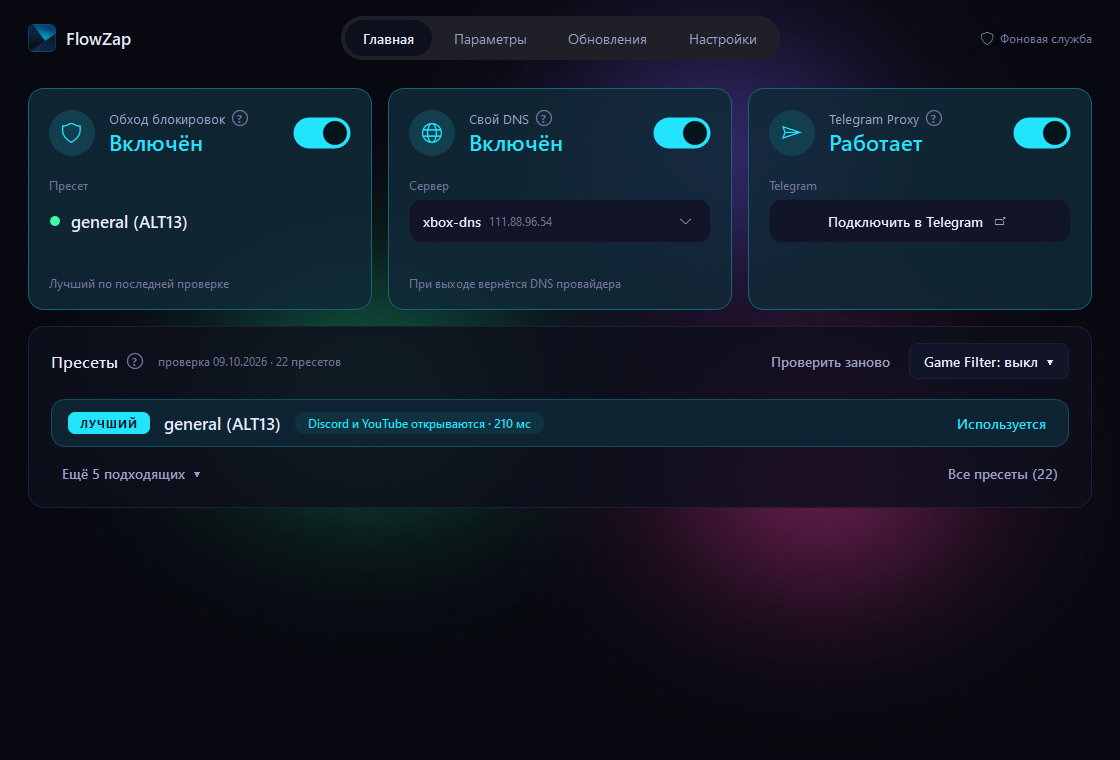
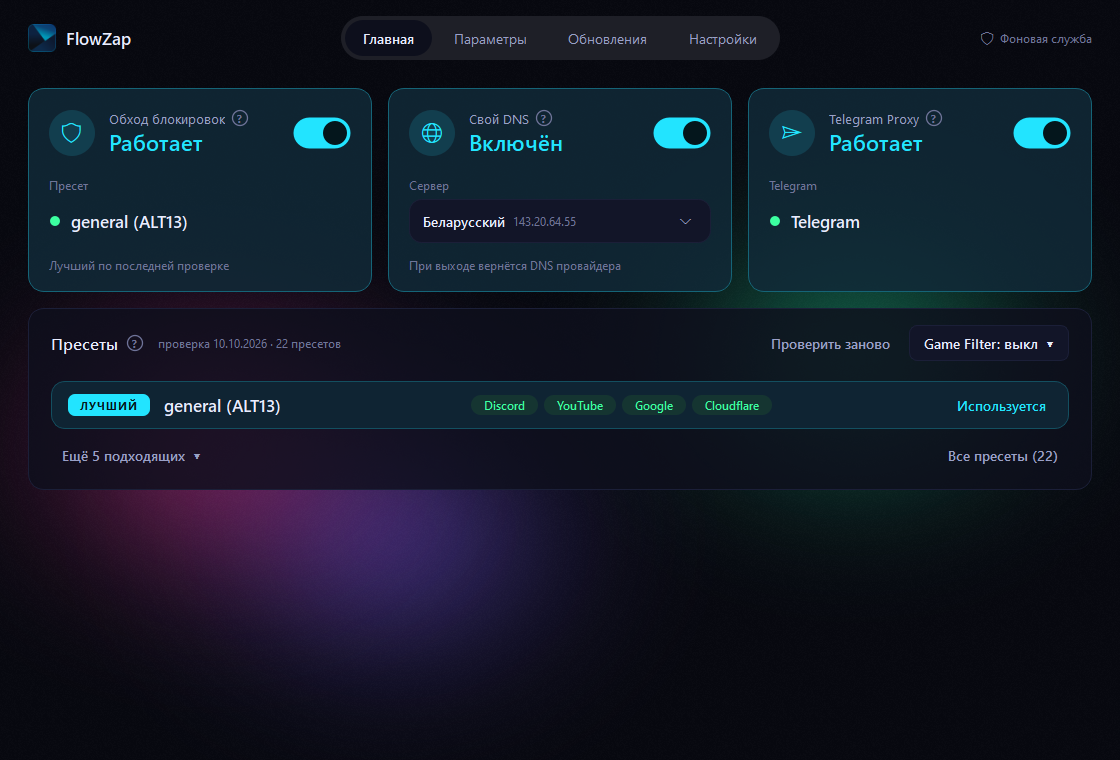
README: проверка по сервисам, подписанные обновления, «Старый секрет»
- Проверка пресетов: метки Discord / YouTube / Google / Cloudflare и как
  выбирается лучший; новые скриншоты главной (светлая и тёмная тема).
- Безопасность: обновления с 1.1 подписаны автором.
- FAQ: что делать, если на плитке Telegram «Старый секрет».
- Встроенный DNS по умолчанию — «Беларусский».

diff --git a/README.md b/README.md
@@ -41,7 +41,8 @@ FlowZap — приложение для Windows, которое возвраща
 
 <br>
 
-- 🔍 **Проверка пресетов** — FlowZap по очереди пробует каждый пресет и показывает результат цветом: 🟢 работает · 🟡 частично · 🔴 не работает. Лучший — сверху, с временем ответа.
+- 🔍 **Проверка пресетов** — FlowZap по очереди пробует каждый пресет и показывает, что с ним работает: Discord, YouTube, Google и Cloudflare — отдельными цветными метками (🟢 работает · 🟡 частично · 🔴 нет). Лучший — сверху: с ним полностью работают Discord и YouTube, а при равенстве он самый быстрый.
+- ✍ **Подписанные обновления** — каждое обновление FlowZap подписано автором; поддельное или повреждённое FlowZap не установит.
 - 🔐 **Без прав администратора** — один раз ставится фоновая служба FlowZap Service (одно окно Windows), дальше FlowZap запускается как обычная программа.
 - ⬇ **Всё скачивается само** — при первом нажатии «Включить» FlowZap загрузит zapret и проверит файлы по контрольной сумме.
 - 🔄 **Обновления в один клик** — FlowZap, zapret и TG Proxy обновляются на вкладке «Обновления». Если загрузка с GitHub упёрлась в лимит из-за DNS, FlowZap сам повторит её без него.
@@ -68,6 +69,8 @@ FlowZap — приложение для Windows, которое возвраща
 
 > [!NOTE]
 > **🛡 Безопасность.** Kaspersky проверил FlowZap, в том числе запустив его в песочнице: **«Безопасный объект»** — угроз и подозрительных действий не найдено. [Отчёт Kaspersky OpenTIP](https://opentip.kaspersky.com/136CE0263449C42A76ABEBEB008F4711790AA1911449AAA14C2D8F490AADE561/results?tab=upload)
+>
+> Начиная с версии 1.1 обновления FlowZap подписаны цифровой подписью автора: перед установкой FlowZap проверяет подпись и не поставит подменённый или повреждённый файл — даже если его подложат на страницу релизов.
 
 ---
 
@@ -80,7 +83,7 @@ FlowZap — приложение для Windows, которое возвраща
 
 1. **Нажмите тумблер «Обход блокировок»** на главной — FlowZap скачает zapret.
 2. Затем он **сам проверит пресеты и подскажет лучший** — около полутора минут, ход видно по полосе в блоке «Пресеты». В начале Windows один раз спросит разрешение на установку **фоновой службы** (окно UAC) — согласитесь. Больше это окно появляться не будет.
-3. Когда проверка закончится, у лучшего пресета нажмите **«Использовать»** и включите тумблер ещё раз.
+3. Когда проверка закончится, у лучшего пресета нажмите **«Использовать»** и включите тумблер ещё раз. Цветные метки рядом с пресетом показывают, что с ним открывается: Discord, YouTube, Google, Cloudflare.
 4. Готово — Discord и YouTube открываются. В следующий раз хватит одного тумблера, а можно и вовсе включить обход при запуске в **Настройках**.
 
 <div align="center">
@@ -89,7 +92,7 @@ FlowZap — приложение для Windows, которое возвраща
 </div>
 
 ### Свой DNS и нейросети
-Включите тумблер **«Свой DNS»** на главной — и откроются нейросети и сервисы, которые сами ограничили доступ из России: ChatGPT, Gemini и другие. Это делают встроенные DNS-серверы (xbox-dns и другие): для таких сервисов они пропускают запросы через себя. Сервер выбирается во вкладке **Параметры → DNS-серверы**: там встроенные серверы и время их ответа, можно добавить свой. При выходе из FlowZap возвращается DNS провайдера.
+Включите тумблер **«Свой DNS»** на главной — и откроются нейросети и сервисы, которые сами ограничили доступ из России: ChatGPT, Gemini и другие. Это делают встроенные DNS-серверы («Беларусский», xbox-dns и другие): для таких сервисов они пропускают запросы через себя. Сервер выбирается во вкладке **Параметры → DNS-серверы**: там встроенные серверы и время их ответа, можно добавить свой. При выходе из FlowZap возвращается DNS провайдера.
 
 ### Telegram Proxy
 1. Включите тумблер **«Telegram Proxy»** на главной.
@@ -182,7 +185,16 @@ FlowZap — приложение для Windows, которое возвраща
 
 <br>
 
-Нажмите **«Проверить заново»** в блоке «Пресеты» — провайдеры меняют блокировки, и лучший пресет со временем может смениться. Если ни один не работает — обновите zapret во вкладке «Обновления»: Flowseal регулярно выпускает новые пресеты.
+Нажмите **«Проверить заново»** в блоке «Пресеты» — провайдеры меняют блокировки, и лучший пресет со временем может смениться. Цветные метки у пресетов подскажут, что именно не открывается. Если ни один не работает — обновите zapret во вкладке «Обновления»: Flowseal регулярно выпускает новые пресеты.
+
+</details>
+
+<details>
+<summary><b>Telegram не подключается через прокси, на плитке «Старый секрет»</b></summary>
+
+<br>
+
+Telegram пытается подключиться к прокси со старым паролем (секретом) — так бывает, если секрет или порт сменили в **Параметрах → Telegram Proxy**. Нажмите **«Подключить в Telegram»** на плитке и подтвердите в Telegram. Если вы меняли секрет при открытом Telegram, FlowZap сам откроет окно подтверждения. Телефон, подключённый раньше, нужно подключить заново по QR-коду.
 
 </details>
 
@@ -191,7 +203,7 @@ FlowZap — приложение для Windows, которое возвраща
 
 <br>
 
-Их блокирует не провайдер, а сами сервисы — по стране. Обход zapret тут не поможет, а **свой DNS** поможет: встроенные серверы FlowZap (xbox-dns и другие) подставляют для таких сайтов свои адреса и пропускают запросы через себя. Включите тумблер «Свой DNS» на главной. Какие именно сервисы открываются — решает выбранный DNS-сервер; если какой-то не открылся, попробуйте другой во вкладке **Параметры → DNS-серверы**.
+Их блокирует не провайдер, а сами сервисы — по стране. Обход zapret тут не поможет, а **свой DNS** поможет: встроенные серверы FlowZap («Беларусский», xbox-dns и другие) подставляют для таких сайтов свои адреса и пропускают запросы через себя. Включите тумблер «Свой DNS» на главной. Какие именно сервисы открываются — решает выбранный DNS-сервер; если какой-то не открылся, попробуйте другой во вкладке **Параметры → DNS-серверы**.
 
 </details>
 
@@ -285,7 +297,8 @@ FlowZap is a Windows app that brings back Discord and YouTube, connects Telegram
 
 ### Features
 
-- 🛡 **Block bypass** — FlowZap tests every zapret preset, ranks them by result and speed, and enables the best one.
+- 🛡 **Block bypass** — FlowZap tests every zapret preset against Discord, YouTube, Google and Cloudflare, shows per-service results as colored tags and picks the best one.
+- ✍ **Signed updates** — every FlowZap update is signed by the author; a tampered or corrupted one won't be installed.
 - 🌐 **Custom DNS** — opens ChatGPT, Gemini and other AI services that geo-block Russia; one switch, applied in a fraction of a second.
 - ✈ **Telegram Proxy** — built into FlowZap, no extra apps or tray icons; connect Telegram with one button.
 - 🔐 **No admin rights** — a small background service (FlowZap Service) is installed once with a single UAC prompt.
